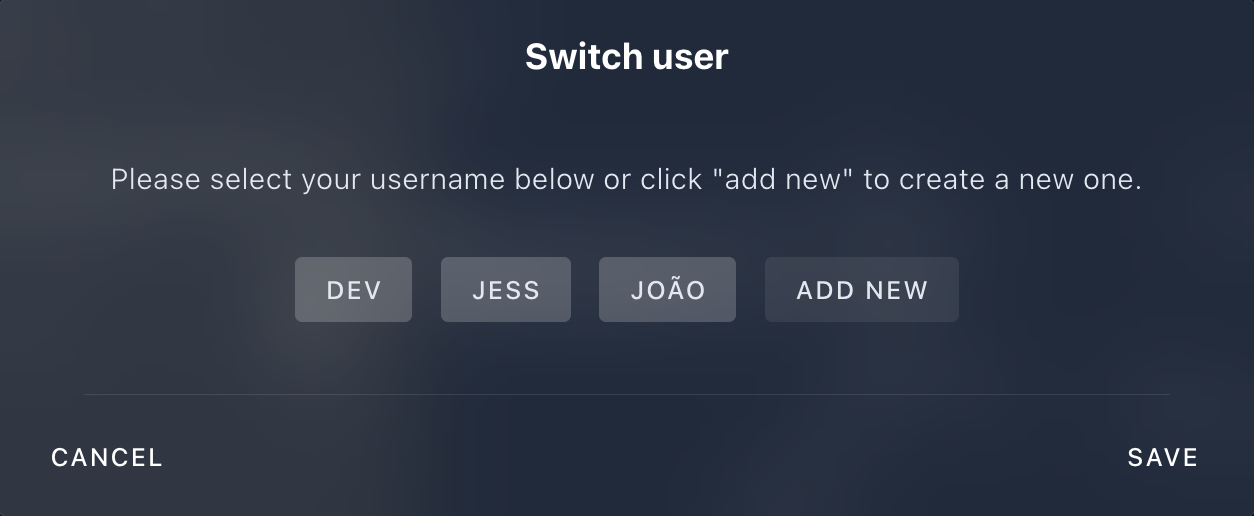
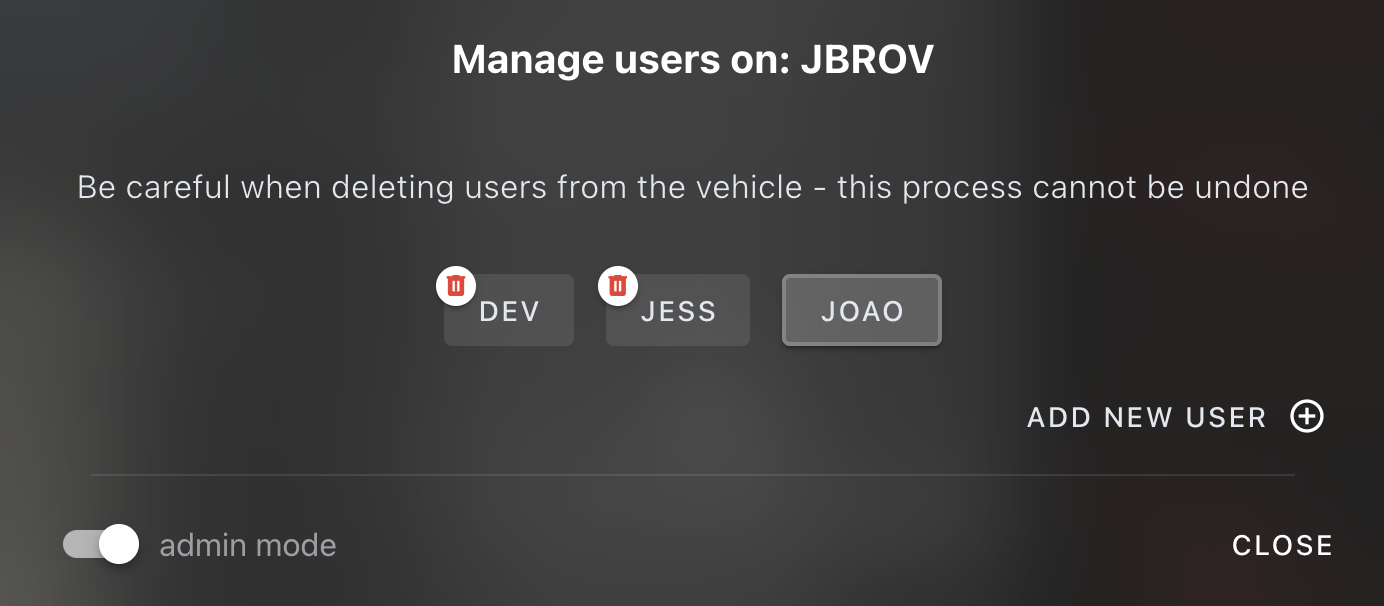
content: usage: advanced: cover user deletion

diff --git a/content/usage/advanced/index.md b/content/usage/advanced/index.md
@@ -141,14 +141,16 @@ Users are mostly helpful for the following situations:
 For individuals with their own vehicles and control computers, it is generally fine to set a
 username once and then ignore that the "user" level exists.
 
-Switching users is done through [`Settings / General`](#general):
+Switching users is done through [`Settings / General > Manage Users`](#general):
+{{ easy_image(src="user-switcher", width=500, center=true) }}
+
+Turning on admin mode, in the bottom left corner, it is possible to add new users or delete
+existing ones:
+
 {{ easy_image(src="user-manager", width=500, center=true) }}
 
-Creating new users is possible by clicking the "Add New" button, and choosing a unique name.
-The new user copies the Profiles of the currently selected user (if one exists - otherwise
-it uses Cockpit's default profiles).
-
-It is [not currently possible to delete users](https://github.com/bluerobotics/cockpit/issues/1384).
+Users must have unique names, and creating a new user copies the Profiles of the currently selected
+user (if one exists - otherwise it uses Cockpit's default profiles).
 
 ### Profiles
 
